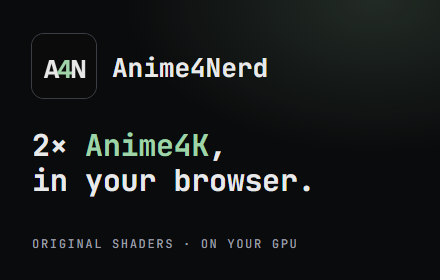
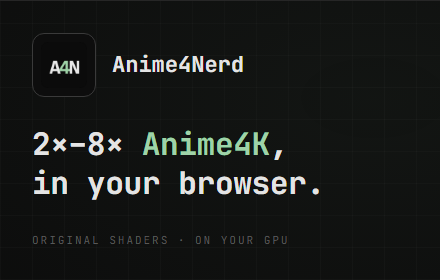
docs(store): 1.1.1 store assets
The fullscreen screenshot notes embedded players and F11, the promo tile says
"2×–8×" (both rendered from docs/store/shots.html, which gains a promo slide),
and the description's fullscreen line matches 1.1.1.

diff --git a/docs/store/shots.html b/docs/store/shots.html
@@ -59,6 +59,14 @@
   .cap { position: absolute; right: 48px; top: 552px; width: 720px; color: var(--faint); font-size: 12px; text-align: right; }
   .left.fs { top: 190px; width: 470px; }
   .left.fs .lede { font-size: 16px; }
+
+  /* 440x280 small promo tile (?s=promo; render with --window-size=440,280) */
+  html.promo, html.promo body { width: 440px; height: 280px; }
+  #promo .logo { position: absolute; left: 32px; top: 32px; display: flex; align-items: center; gap: 16px; font-size: 22px; font-weight: 700; }
+  #promo .logo img { width: 64px; height: 64px; border: 1px solid var(--line2); border-radius: 12px; padding: 8px; background: #0d0d0d; }
+  #promo h1 { position: absolute; left: 32px; top: 124px; margin: 0; font-size: 31px; line-height: 1.25; letter-spacing: -.01em; }
+  #promo h1 em { font-style: normal; color: var(--ok); }
+  #promo .sub { position: absolute; left: 32px; bottom: 30px; color: var(--faint); font-size: 11px; letter-spacing: .18em; text-transform: uppercase; }
 </style>
 </head>
 <body>
@@ -139,7 +147,7 @@
       <li>Upscale: auto, 2×, 4×, 8× and up</li>
       <li>Exact output size, and a note if your GPU caps it</li>
       <li>Live GPU graph while you choose</li>
-      <li>Fades away; clicks never reach the player</li>
+      <li>Works in embedded players and F11 too</li>
     </ul>
   </div>
   <div class="player">
@@ -161,10 +169,17 @@
   <div class="foot">Frame: Morevna Project, CC BY 3.0</div>
 </section>
 
+<section class="slide" id="promo">
+  <div class="logo"><img src="../../icons/128.png" alt="">Anime4Nerd</div>
+  <h1>2×–8× <em>Anime4K</em>,<br>in your browser.</h1>
+  <div class="sub">original shaders · on your gpu</div>
+</section>
+
 <script>
   // Pick the slide, then fill the frame-time bars deterministically around each panel's cost.
   var s = new URLSearchParams(location.search).get('s') || 'hero';
   document.getElementById(s).classList.add('on');
+  if (s === 'promo') document.documentElement.classList.add('promo');
   var LIMIT = 41.7, seed = 7;
   var rnd = function () { seed = (seed * 16807) % 2147483647; return seed / 2147483647; };
   document.querySelectorAll('[data-bars]').forEach(function (box) {

diff --git a/docs/STORE_LISTING.md b/docs/STORE_LISTING.md
@@ -15,7 +15,7 @@ What you get
 • Six presets: Mode A / B / C and their stronger A+A / B+B / C+A variants
 • Optional line effects: darken lines, thin lines
 • Upscale factor: auto (4× when a small video is shown large), or 2× up to 32×, capped to what your GPU can hold
-• Fullscreen menu: change preset, line effects and upscale factor without leaving fullscreen
+• Fullscreen menu: change preset, line effects and upscale factor without leaving fullscreen, including embedded players and F11
 • Works on embedded players too (videos inside iframes are found automatically)
 • Live performance panel: GPU % per frame, ms, output fps, late frames, 2-second graph
 • Per-site switch that is remembered, so the next episode is already upscaled
@@ -52,7 +52,7 @@ with headless Edge (command in the file).
 
 The popup shows a fictional title ("Starlight Academy") on purpose: no real show names or frames.
 
-**Promo tile 440×280:** `docs/store/anime4nerd-promo-440x280.png`.
+**Promo tile 440×280:** `docs/store/anime4nerd-promo-440x280.png` (regenerated for 1.1 from `shots.html?s=promo`, "2×–8×").
 
 ## Store fields
 
